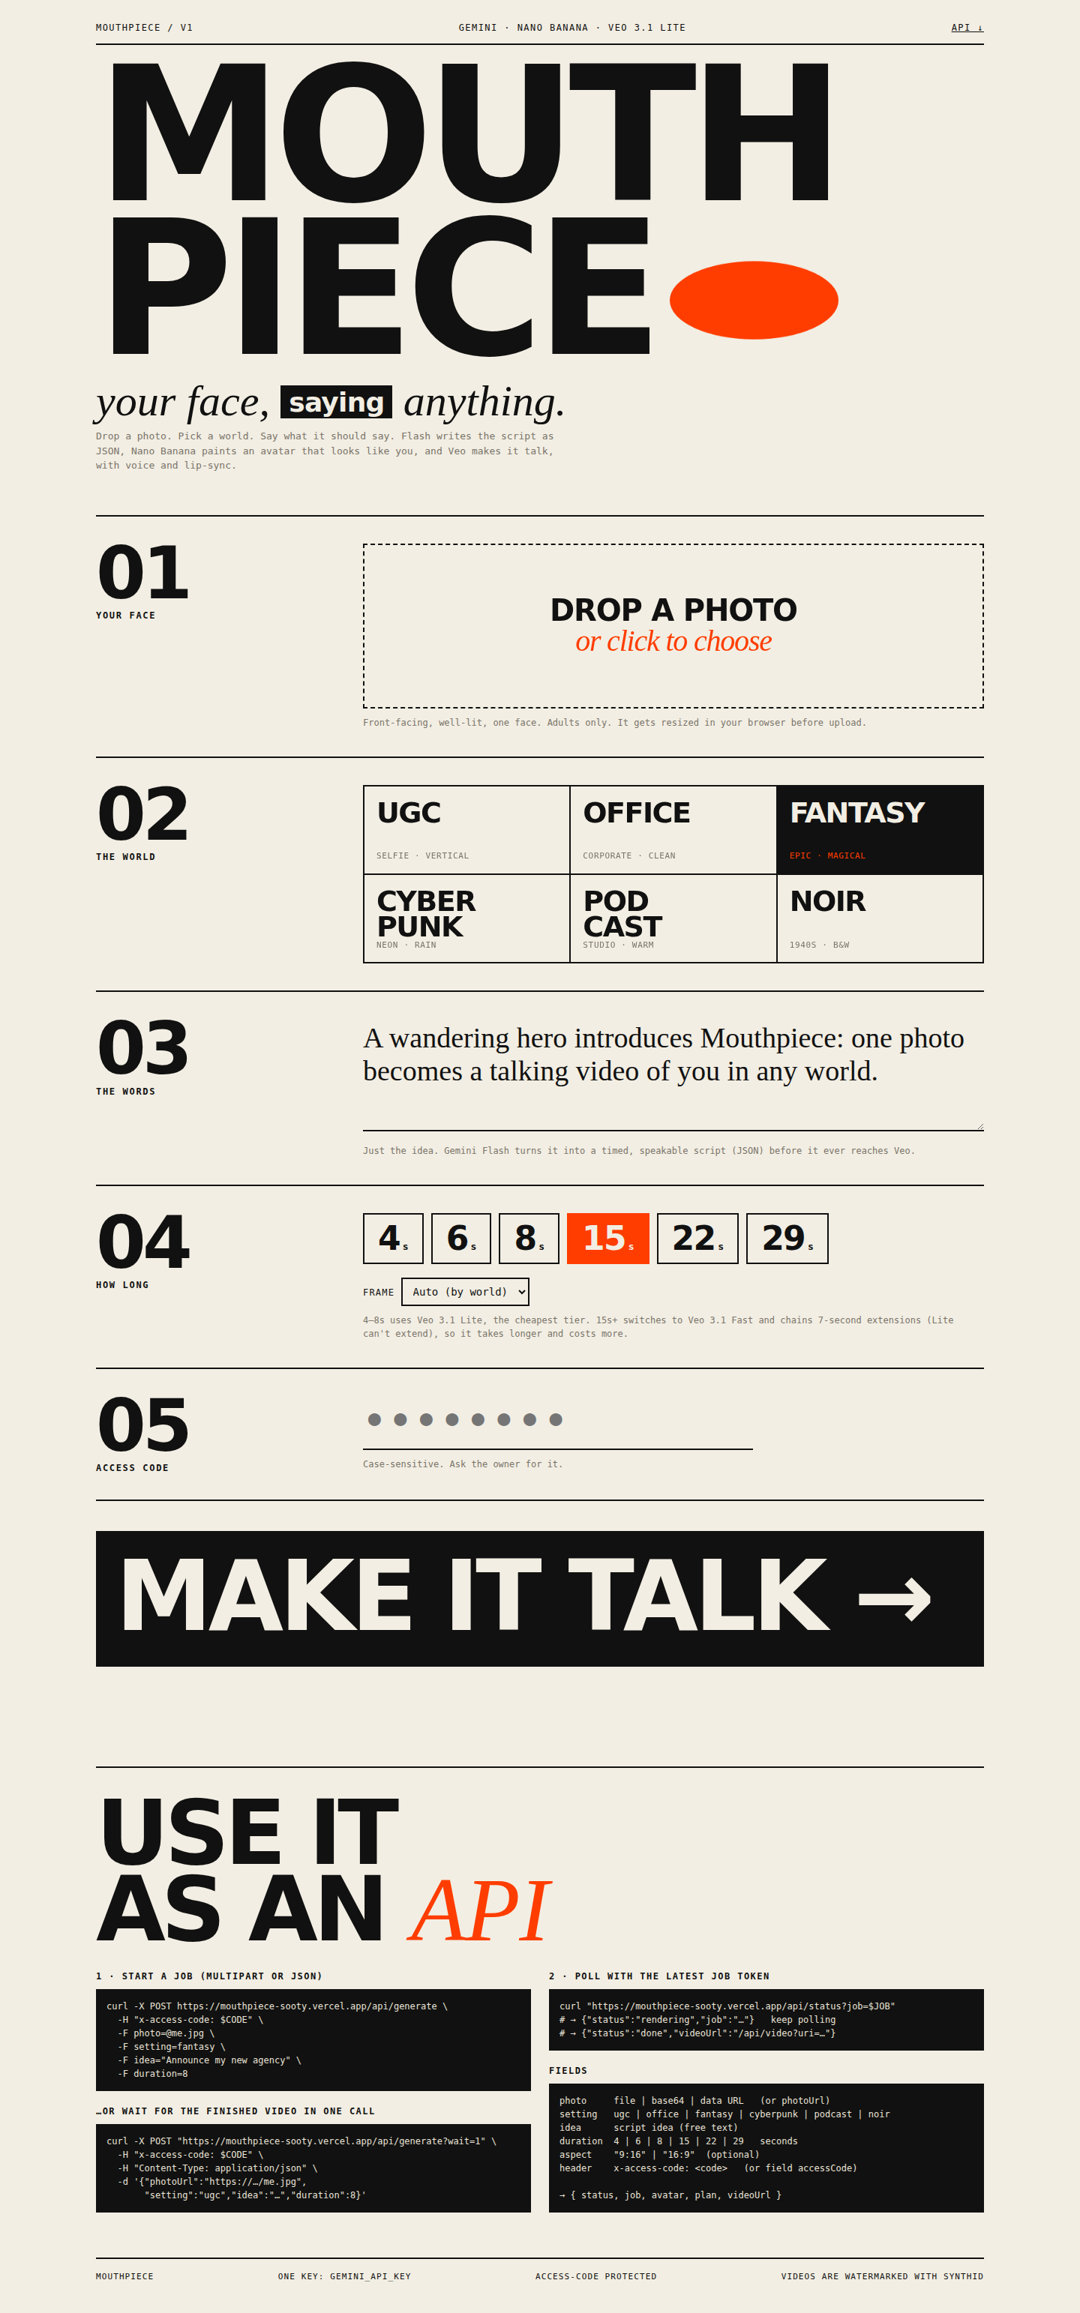
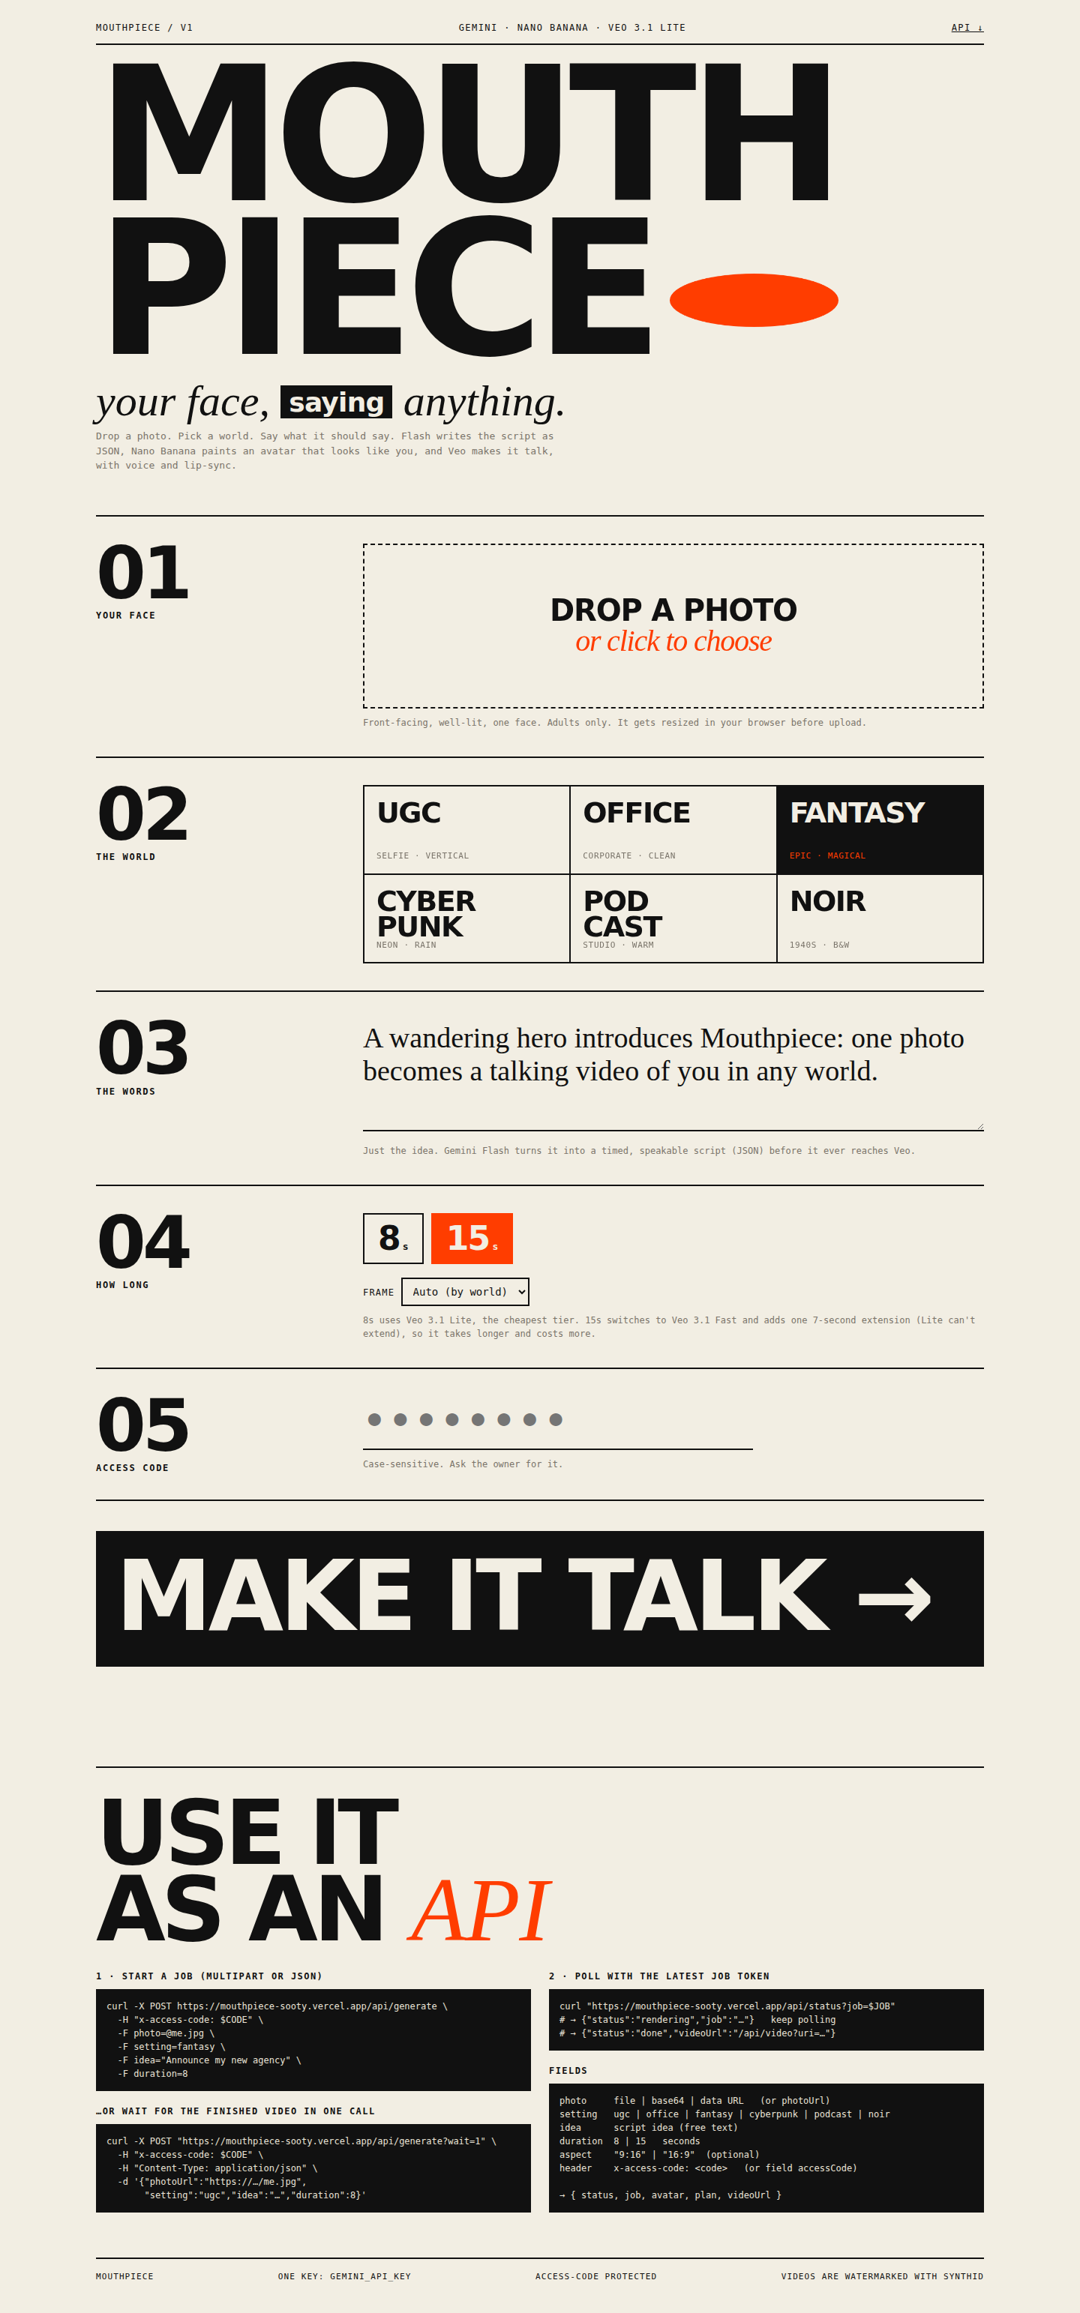
Durations: 8s or 15s only

diff --git a/public/index.html b/public/index.html
@@ -155,7 +155,7 @@
         <div class="row">
           <label>Frame <select id="aspect"><option value="">Auto (by world)</option><option value="9:16">9:16 vertical</option><option value="16:9">16:9 wide</option></select></label>
         </div>
-        <p class="hint">4–8s uses Veo 3.1 Lite, the cheapest tier. 15s+ switches to Veo 3.1 Fast and chains 7-second extensions (Lite can't extend), so it takes longer and costs more.</p>
+        <p class="hint">8s uses Veo 3.1 Lite, the cheapest tier. 15s switches to Veo 3.1 Fast and adds one 7-second extension (Lite can't extend), so it takes longer and costs more.</p>
       </div>
     </section>
 
@@ -202,7 +202,7 @@
 <pre>photo     file | base64 | data URL   (or photoUrl)
 setting   ugc | office | fantasy | cyberpunk | podcast | noir
 idea      script idea (free text)
-duration  4 | 6 | 8 | 15 | 22 | 29   seconds
+duration  8 | 15   seconds
 aspect    "9:16" | "16:9"  (optional)
 header    x-access-code: &lt;code&gt;   (or field accessCode)
 
@@ -219,7 +219,7 @@ const WORLDS = [
   ["ugc","UGC","selfie · vertical"],["office","Office","corporate · clean"],["fantasy","Fantasy","epic · magical"],
   ["cyberpunk","Cyber punk","neon · rain"],["podcast","Pod cast","studio · warm"],["noir","Noir","1940s · b&w"],
 ];
-const DURS = [4,6,8,15,22,29];
+const DURS = [8,15];
 const $ = (id) => document.getElementById(id);
 
 $("worlds").innerHTML = WORLDS.map(([k,w,d],i)=>`<label><input type="radio" name="world" value="${k}" ${i===0?"checked":""}><span class="w">${w.replace(" ","<br>")}</span><span class="d">${d}</span></label>`).join("");

diff --git a/api/generate.js b/api/generate.js
@@ -5,7 +5,7 @@ import { json, cors, handle, checkAccess, readInput, resolvePhoto } from "../lib
 //   photo     (file | base64 | data URL)  or  photoUrl
 //   setting   ugc | office | fantasy | cyberpunk | podcast | noir
 //   idea      free-text script idea
-//   duration  4 | 6 | 8 | 15 | 22 | 29   (seconds)
+//   duration  8 | 15   (seconds)
 //   aspect    optional "16:9" | "9:16"
 //   accessCode  required when ACCESS_CODE is set (or header x-access-code)
 //   ?wait=1   block (up to ~4.5 min) and return the finished video if it's ready

diff --git a/lib/settings.js b/lib/settings.js
@@ -68,8 +68,8 @@ export const SETTINGS = {
   },
 };
 
-// Veo 3.1: first clip is 4, 6 or 8 s. Each extension adds ~7 s (base must be 8 s, 720p).
-export const DURATIONS = [4, 6, 8, 15, 22, 29];
+// 8s = one Veo clip. 15s = 8s clip + one ~7s extension.
+export const DURATIONS = [8, 15];
 
 export function segmentPlan(duration) {
   const d = DURATIONS.includes(Number(duration)) ? Number(duration) : 8;

diff --git a/README.md b/README.md
@@ -22,7 +22,7 @@ Pick a world, type an idea, choose a length. Gemini writes the script, paints an
 | 📸 **A photo** of a face | 🧑🎨 An **avatar** that still looks like that person, restyled for the world you picked |
 | 🌍 **A setting**: UGC, Office, Fantasy, Cyberpunk, Podcast or Noir | 📝 A **timed script** as structured JSON |
 | 💬 **A script idea**, one line is enough | 🎬 A **video** of the avatar speaking the script to camera, with voice and lip-sync |
-| ⏱ **A length**: 4, 6, 8, 15, 22 or 29 seconds | 🔌 All of it through a **REST API** too |
+| ⏱ **A length**: 8 or 15 seconds | 🔌 All of it through a **REST API** too |
 
 Everything runs on **one Gemini API key**. No ElevenLabs and no separate TTS: Veo generates the voice itself from the quoted dialogue.
 
@@ -40,7 +40,7 @@ flowchart LR
     end
 
     S --> R{{Setting router<br/>lib/settings.js}}
-    D --> SEG[Segment plan<br/>8s + 7s + 7s…]
+    D --> SEG[Segment plan<br/>8s or 8s + 7s]
 
     P --> NB[Nano Banana 2<br/>gemini-3.1-flash-image]
     R -- avatar style --> NB
@@ -56,10 +56,10 @@ flowchart LR
     JS --> VP
     R -- camera · ambience --> VP
 
-    VP --> V{≤ 8s?}
-    V -- yes --> LITE[Veo 3.1 Lite<br/>image → video]
-    V -- no --> FAST[Veo 3.1 Fast<br/>image → video]
-    FAST --> EXT[Veo extend +7s<br/>repeat per segment]
+    VP --> V{8s or 15s?}
+    V -- 8s --> LITE[Veo 3.1 Lite<br/>image → video]
+    V -- 15s --> FAST[Veo 3.1 Fast<br/>image → video]
+    FAST --> EXT[Veo extend +7s]
     LITE --> OUT[🎬 MP4 with voice]
     EXT --> OUT
 ```
@@ -82,9 +82,9 @@ flowchart LR
    - **Photo → avatar.** `gemini-3.1-flash-image` (Nano Banana 2) repaints the person in the chosen world. The prompt tells it to keep their identity: face shape, eyes, skin tone, hair and age.
 3. **JSON → Veo.** Each segment becomes a directed Veo prompt: scene, performance, `They say, in a <voice>: "<dialogue>"`, camera move, ambient sound, and "no subtitles". The avatar is the first frame.
 4. **Render.**
-   - **4–8s** → one clip on **Veo 3.1 Lite**, the cheapest tier.
-   - **15/22/29s** → base clip on **Veo 3.1 Fast**, then 7-second **extensions** chained one per segment, keeping the same voice and scene. Lite can't extend.
-5. **Poll → play.** The client polls `/api/status`. When a clip finishes and more segments are left, the server starts the next extension by itself. The final MP4 streams through `/api/video`, because Google's file URLs need the API key.
+   - **8s** → one clip on **Veo 3.1 Lite**, the cheapest tier.
+   - **15s** → an 8s clip on **Veo 3.1 Fast**, then one 7-second **extension** that keeps the same voice and scene. Lite can't extend.
+5. **Poll → play.** The client polls `/api/status`. For 15s jobs, the server starts the extension by itself once the first clip finishes. The final MP4 streams through `/api/video`, because Google's file URLs need the API key.
 
 ### Settings routing
 
@@ -156,13 +156,13 @@ curl -X POST "https://mouthpiece-sooty.vercel.app/api/generate?wait=1" \
 | `photo` | file (multipart), base64, or data URL. **Or** `photoUrl` (https image) |
 | `setting` | `ugc` `office` `fantasy` `cyberpunk` `podcast` `noir` |
 | `idea` | free-text script idea |
-| `duration` | `4` `6` `8` `15` `22` `29` seconds |
+| `duration` | `8` or `15` seconds |
 | `aspect` | optional `9:16` / `16:9` (default depends on setting) |
 
 | Endpoint | |
 |---|---|
 | `POST /api/generate` | script + avatar + start Veo |
-| `GET/POST /api/status` | poll; chains extensions for 15s+ |
+| `GET/POST /api/status` | poll; runs the extension for 15s jobs |
 | `GET /api/video?uri=` | streams the MP4 (`&download=1` to save) |
 | `GET /api/health` | config + model check |
 
@@ -178,7 +178,7 @@ api/generate.js     POST: validate → access check → script ∥ avatar → st
 api/status.js       poll a job, auto-chain extensions
 api/video.js        proxy Veo's MP4 (keeps the API key server-side)
 api/health.js       config check
-lib/settings.js     the 6 worlds + duration → segment plan
+lib/settings.js     the 6 worlds + duration (8s / 15s) → segment plan
 lib/gemini.js       all Google calls: Flash, Nano Banana, Veo start/extend/poll
 lib/pipeline.js     orchestration
 lib/http.js         input parsing, access gate, signed job tokens
@@ -202,8 +202,8 @@ dev.js              local server that mimics Vercel
 |---|---|---|
 | Script → JSON | `gemini-3.8-flash` | structured output, sees the photo; costs fractions of a cent |
 | Avatar | `gemini-3.1-flash-image` (Nano Banana 2) | best likeness. Set `IMAGE_MODEL=gemini-3.1-flash-lite-image` for about half the price |
-| Video ≤ 8s | `veo-3.1-lite-generate-preview` | **cheapest Veo tier**, 720p |
-| Video 15s+ | `veo-3.1-fast-generate-preview` | Lite can't extend. Fast is the cheapest tier that can |
+| Video 8s | `veo-3.1-lite-generate-preview` | **cheapest Veo tier**, 720p |
+| Video 15s | `veo-3.1-fast-generate-preview` | Lite can't extend. Fast is the cheapest tier that can |
 
 Every model can be overridden with env vars. Veo bills per second of video, so **8s on Lite is the cheapest way to use this**.
 
